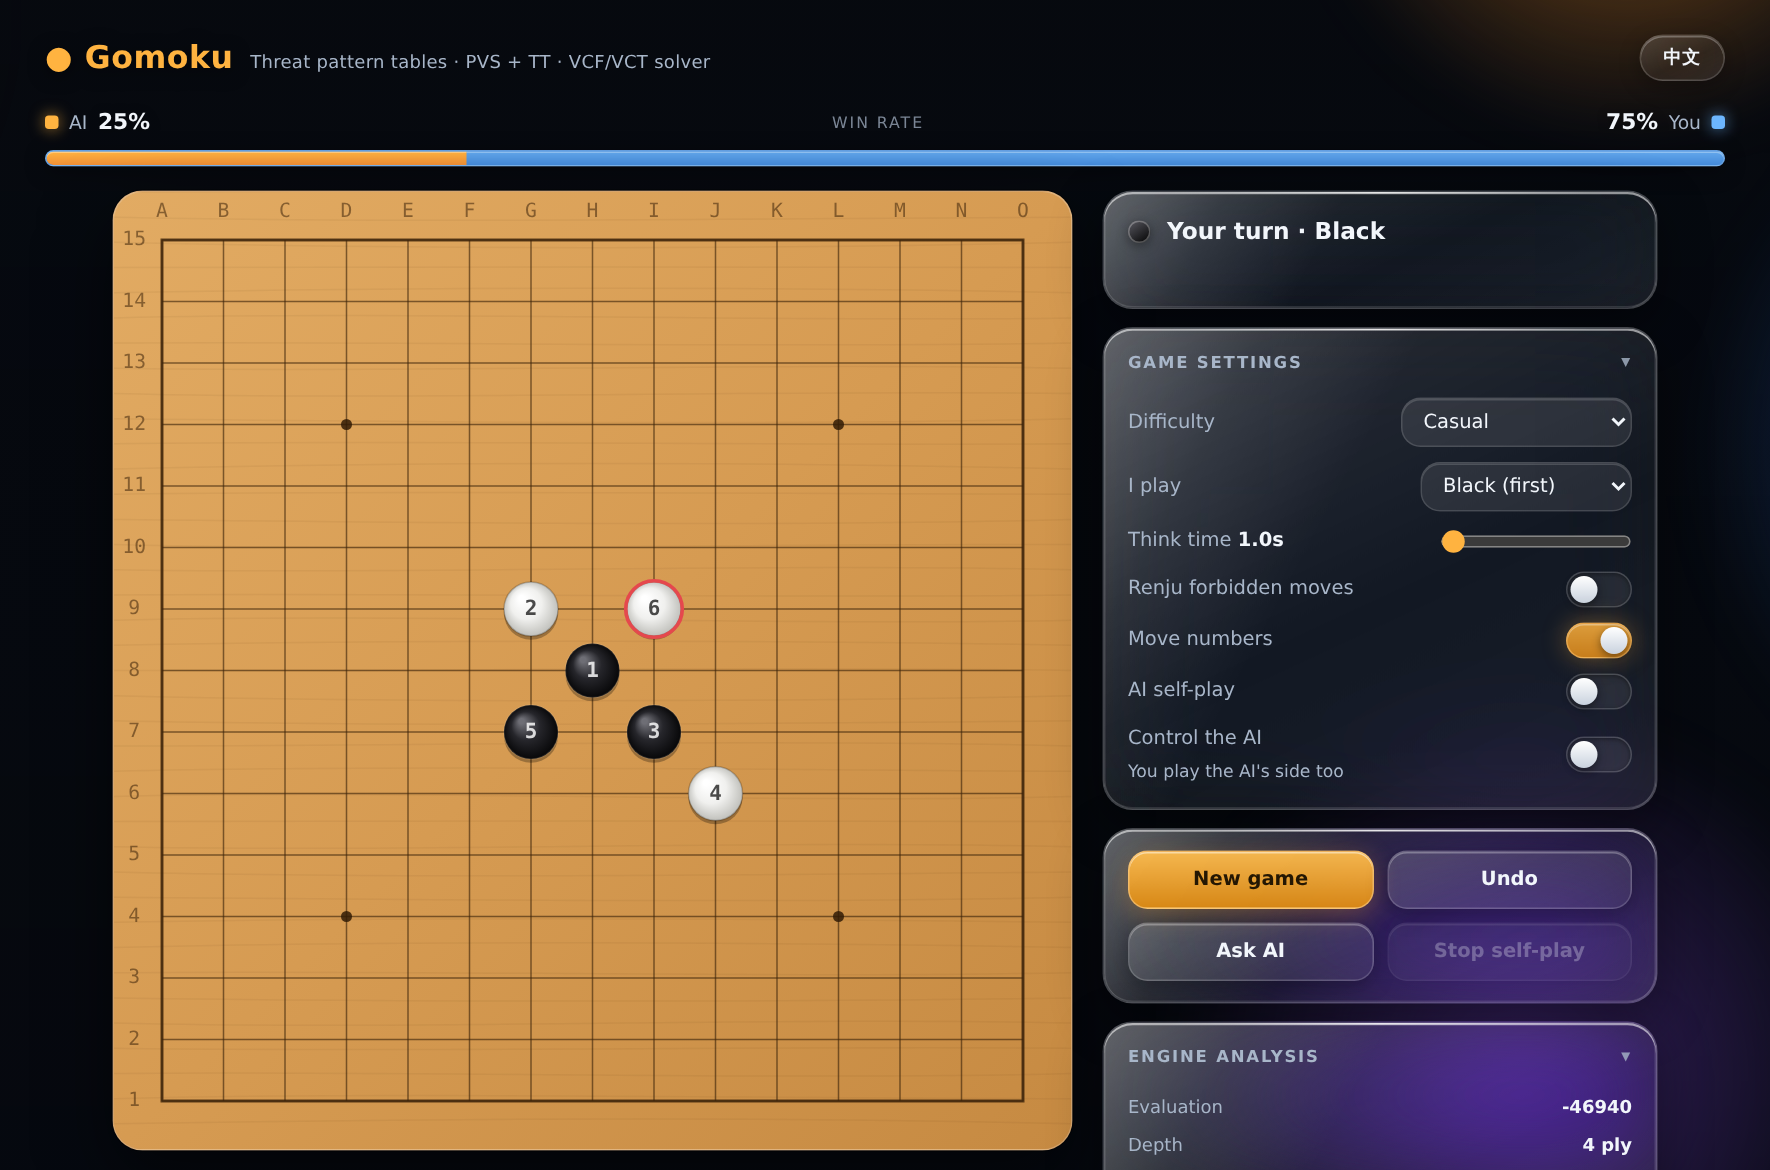
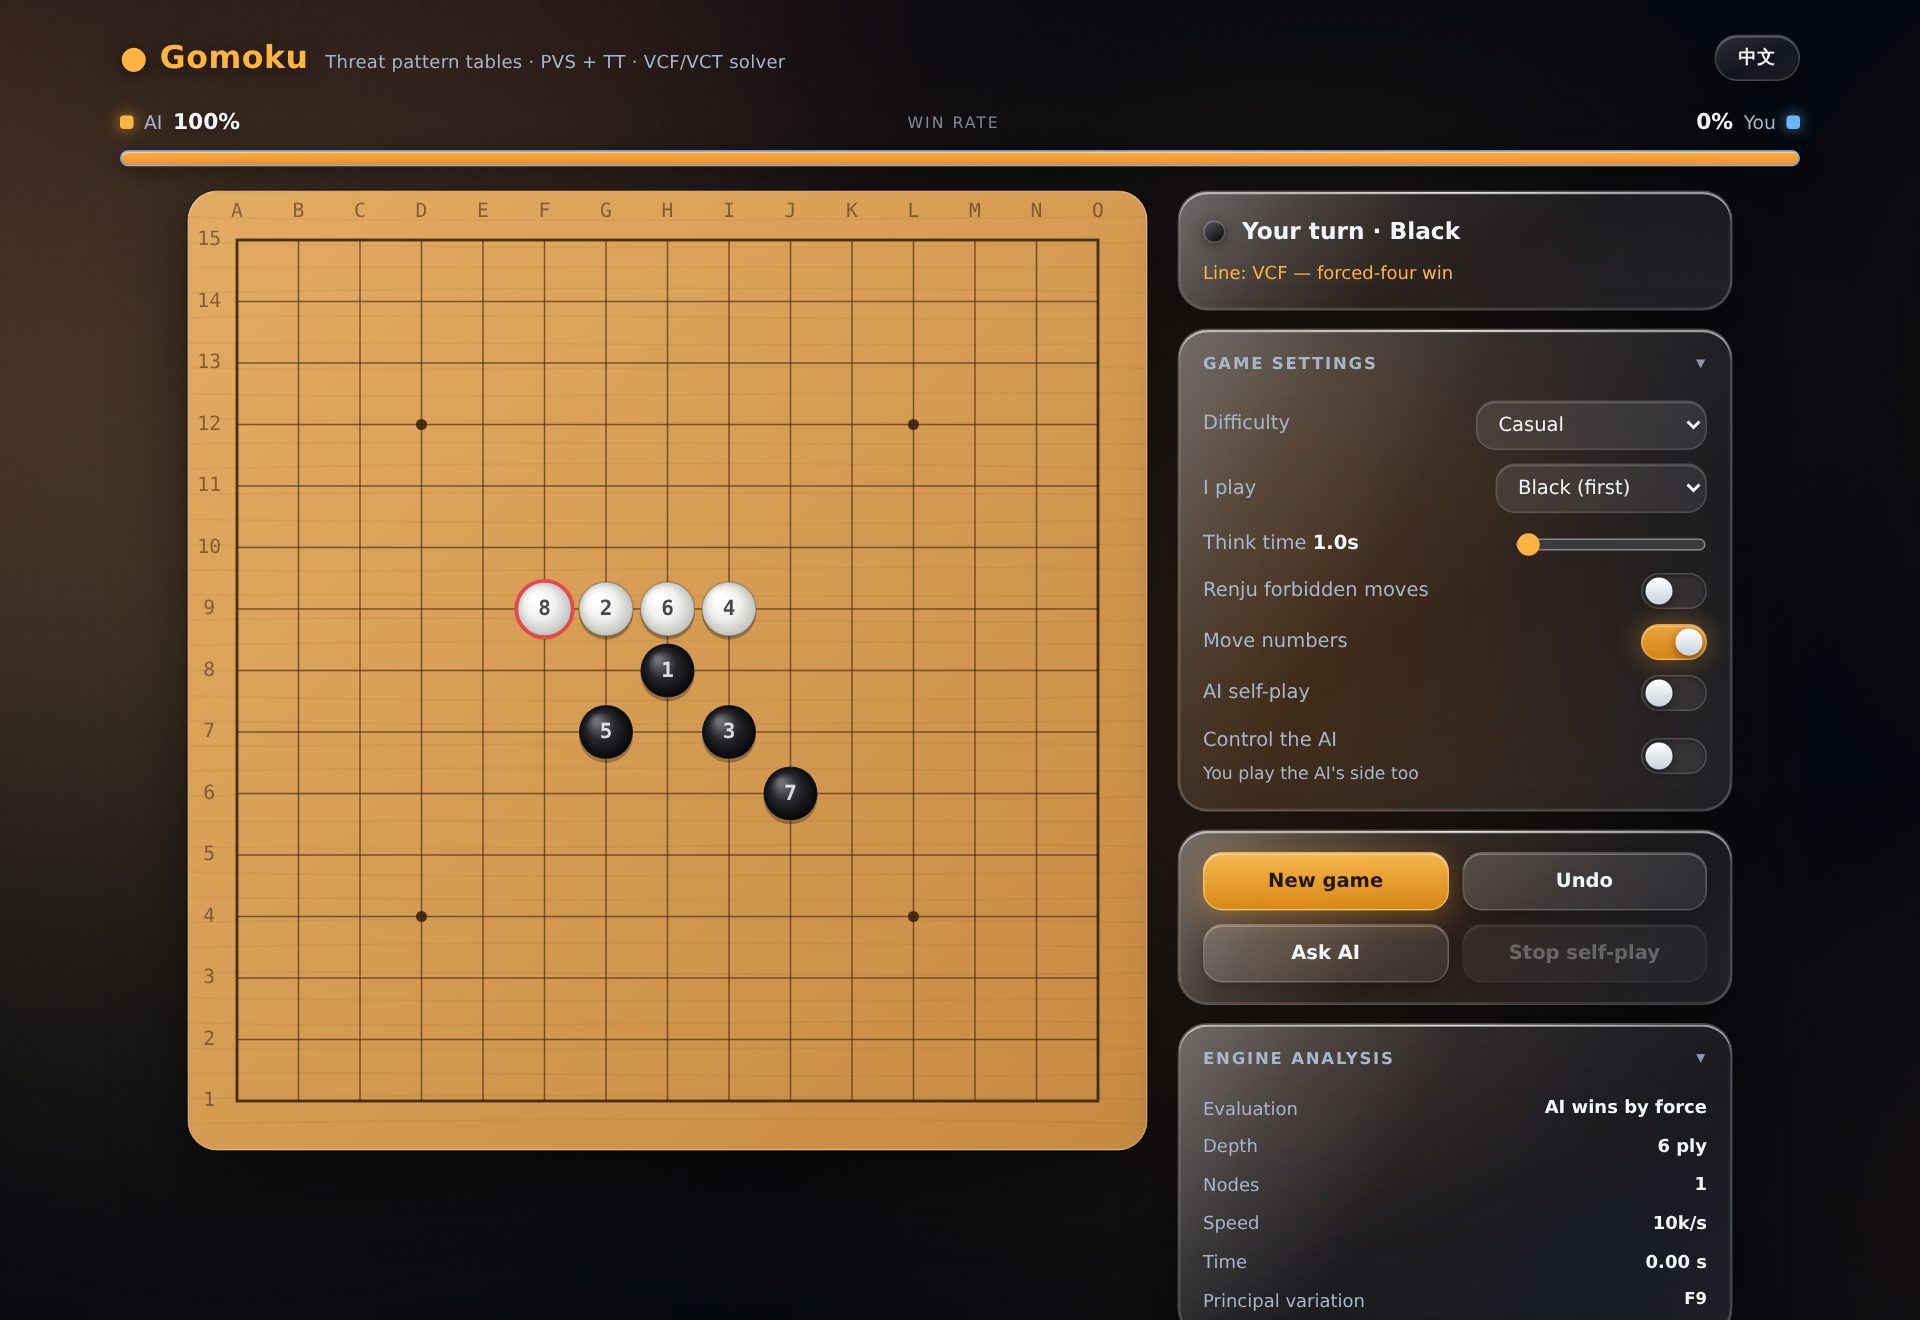
背景改为胜率驱动的水粉画，并给点击/折叠/开关加交互动效
水粉背景（新增 #bg 画布，替换原来的静态 CSS 光斑）：
- 地盘按胜率划分：AI 占优 -> 暖色（琥珀/橘）铺得多，你占优 -> 冷色（蓝/青/紫）铺得多，
  由 updateWinBar() 把胜率喂给 BG.set()
- 「交界像混色」不是把两块颜色拼在一起：每个色团同时持有一个暖色和一个冷色，实际
  颜色由它相对分界线的位置插值，过渡带很宽（SOFT=0.30）。靠近分界的色团本身就是
  两色调和出的中间色，正是水粉湿画法的样子
- 分界线行程刻意超出画面两侧（-0.28~1.38）：只在 0~1 之间移动的话，一方 95% 时
  另一端仍残留对方色团，「地盘被吃掉」的感觉出不来
- 胜率变化时用指数趋近（约 1.5s），实测颜色是从一侧向另一侧洇过去的，不是整体跳变

性能（这是上一轮踩过的坑，这次一开始就按它设计）：
- 画布只有 1/5 分辨率，放大时的双线性插值顺带把色团揉软，省掉昂贵的全屏 CSS blur
- 重绘限速：静止约 8fps、胜率变化时约 24fps。因为每次重绘都会让上面每块玻璃重算
  一次 backdrop——上一轮正是没限速才把 60fps 打到 12fps
- 实测：静止看棋桌面/手机均满帧；鼠标在棋盘连续划动时桌面 33ms、手机满帧，
  与加背景动画之前持平

交互动效：
- 按钮：以按下点为圆心的涟漪（--rx/--ry 由 pointerdown 写入），按下时轻微缩放
- 开关：旋钮走 transform 的弹簧曲线 + 按下拉长（用 transform 而非 left，改宽度时
  才不会把位移顶歪），轨道颜色与辉光同步过渡
- 折叠：原生 details 无法过渡高度，接管 summary 点击用 WAAPI 做高度动画，仍通过
  设置 .open 切换，toggle 事件/键盘/语义不变；收起动画放完才真正关闭
- 全部尊重 prefers-reduced-motion

引擎源码仍逐字节未改，det.js 确定性不变，三视口回归全过。

diff --git a/index.html b/index.html
@@ -43,25 +43,18 @@
     padding:clamp(12px,3vw,22px) 12px calc(28px + env(safe-area-inset-bottom));
     gap:16px;-webkit-font-smoothing:antialiased;
   }
-  /* 玻璃背后必须有东西可透，否则只是「亮一点的方块」。这层彩色光斑就是被透的内容。 */
-  body::before{
-    content:'';position:fixed;inset:-25%;z-index:-2;pointer-events:none;
-    background:
-      radial-gradient(30vw 30vw at 78%  6%, rgba(255,150,40,.70), transparent 62%),
-      radial-gradient(34vw 34vw at 95% 42%, rgba(48,130,255,.68), transparent 64%),
-      radial-gradient(32vw 32vw at 74% 78%, rgba(150,80,255,.62), transparent 64%),
-      radial-gradient(26vw 26vw at 98% 96%, rgba(0,205,190,.50), transparent 62%),
-      radial-gradient(30vw 30vw at  4% 18%, rgba(255,120,60,.42), transparent 62%),
-      radial-gradient(28vw 28vw at  2% 92%, rgba(60,120,255,.40), transparent 62%);
-    filter:blur(18px);
+  /* 水粉背景：玻璃背后必须有东西可透，否则只是「亮一点的方块」。
+     用一张低分辨率画布画柔和色团，再由浏览器双线性放大到全屏——放大本身就把色团
+     揉成了水粉那种没有硬边的过渡，比十几个 CSS 渐变便宜得多，也才有条件做动态。
+     颜色由胜率驱动：AI 占优则暖色地盘变大，你占优则冷色变大，交界处两色互相渗透。 */
+  #bg{
+    position:fixed;inset:0;width:100%;height:100%;z-index:-2;pointer-events:none;
+    display:block;
   }
-  /* 这层刻意保持静止。实测：让它缓慢漂移会把每块玻璃的 backdrop 每帧都判定为「背景变了」
-     而重新模糊 —— 桌面 16.7ms -> 83ms、手机 16.7ms -> 33ms。动感换不来这个代价，
-     玻璃质感靠模糊和边缘高光已经足够。 */
   /* 压暗一层，保证玻璃上的文字始终够对比度——光斑再亮也不会糊掉正文 */
   body::after{
     content:'';position:fixed;inset:0;z-index:-1;pointer-events:none;
-    background:linear-gradient(180deg,rgba(5,8,14,.26),rgba(5,8,14,.44));
+    background:linear-gradient(180deg,rgba(5,8,14,.42),rgba(5,8,14,.56));
   }
 
   /* ---------- 玻璃基类 ---------- */
@@ -181,7 +174,8 @@
   }
   details.card>summary::-webkit-details-marker{display:none}
   details.card>summary:hover{color:var(--fg)}
-  details.card>summary::after{content:'▸';font-size:12px;transition:transform .22s;opacity:.8}
+  details.card>summary::after{content:'▸';font-size:12px;opacity:.8;
+    transition:transform .34s cubic-bezier(.34,1.4,.5,1)}
   details.card[open]>summary::after{transform:rotate(90deg)}
   details.card>.body{padding:0 16px 15px;position:relative;z-index:1}
 
@@ -208,15 +202,19 @@
   select:focus-visible,button:focus-visible,.sw:focus-visible,summary:focus-visible{
     outline:2px solid var(--acc2);outline-offset:2px}
   input[type=range]{padding:0;width:128px;accent-color:var(--acc);cursor:pointer;box-shadow:none}
-  .sw{position:relative;width:44px;height:24px;border-radius:13px;cursor:pointer;transition:.2s;flex:0 0 auto;
+  .sw{position:relative;width:44px;height:24px;border-radius:13px;cursor:pointer;flex:0 0 auto;
     background:rgba(255,255,255,.08);border:1px solid rgba(255,255,255,.15);
-    box-shadow:inset 0 1px 3px rgba(0,0,0,.35)}
+    box-shadow:inset 0 1px 3px rgba(0,0,0,.35);
+    transition:background .28s ease,border-color .28s ease,box-shadow .28s ease}
+  /* 旋钮走 transform 而不是 left：这样「按下拉长」改宽度时不会把位移一起顶歪 */
   .sw::after{content:'';position:absolute;top:2px;left:2px;width:18px;height:18px;border-radius:50%;
-    background:linear-gradient(180deg,#fff,#c9d2de);transition:.2s;
-    box-shadow:0 2px 6px rgba(0,0,0,.45)}
-  .sw.on{background:linear-gradient(180deg,rgba(255,179,64,.85),rgba(232,144,26,.85));
-    border-color:rgba(255,200,120,.5);box-shadow:inset 0 1px 0 rgba(255,255,255,.35),0 0 16px rgba(255,179,64,.35)}
-  .sw.on::after{left:22px}
+    background:linear-gradient(180deg,#fff,#c9d2de);box-shadow:0 2px 6px rgba(0,0,0,.45);
+    transition:transform .38s cubic-bezier(.34,1.42,.5,1),width .22s ease}
+  .sw.on{background:linear-gradient(180deg,rgba(255,179,64,.9),rgba(232,144,26,.9));
+    border-color:rgba(255,200,120,.5);box-shadow:inset 0 1px 0 rgba(255,255,255,.35),0 0 18px rgba(255,179,64,.4)}
+  .sw.on::after{transform:translateX(20px)}
+  .sw:active::after{width:23px}
+  .sw.on:active::after{transform:translateX(15px);width:23px}
 
   .btns{display:grid;grid-template-columns:repeat(2,1fr);gap:9px;position:relative;z-index:1}
   button{
@@ -228,7 +226,20 @@
   }
   button:hover:not(:disabled){background:linear-gradient(155deg,rgba(255,255,255,.18),rgba(255,255,255,.08));
     border-color:rgba(255,255,255,.26)}
-  button:active:not(:disabled){transform:translateY(1px) scale(.985)}
+  button:active:not(:disabled){transform:translateY(1px) scale(.976)}
+  /* 点击涟漪：以按下点为圆心扩散。--rx/--ry 由 JS 在 pointerdown 时写入 */
+  button::after{
+    content:'';position:absolute;left:var(--rx,50%);top:var(--ry,50%);
+    width:0;height:0;border-radius:50%;transform:translate(-50%,-50%);
+    background:radial-gradient(circle,rgba(255,255,255,.5),rgba(255,255,255,0) 68%);
+    opacity:0;pointer-events:none;
+  }
+  button.rip::after{animation:ripple .58s cubic-bezier(.22,.7,.3,1)}
+  @keyframes ripple{
+    0%  {width:0;height:0;opacity:.75}
+    100%{width:300px;height:300px;opacity:0}
+  }
+  button.pri::after{background:radial-gradient(circle,rgba(255,255,255,.75),rgba(255,255,255,0) 68%)}
   button:disabled{opacity:.32;cursor:not-allowed}
   button.pri{
     background:linear-gradient(180deg,rgba(255,190,80,.95),rgba(224,140,20,.95));
@@ -273,6 +284,8 @@
 </style>
 </head>
 <body>
+
+<canvas id="bg" aria-hidden="true"></canvas>
 
 <header>
   <div class="brand">
@@ -1242,6 +1255,95 @@ if(!usingWorker){
   engine=shim;
 }
 
+/* ---------- 水粉背景 ----------
+   地盘按胜率划分：AI 占优 -> 暖色（琥珀/橘）铺得多，你占优 -> 冷色（蓝/青/紫）铺得多。
+
+   怎么做到「交界像混色」：每个色团都同时持有一个暖色和一个冷色，实际颜色由它在
+   x 轴上相对分界线的位置插值而来，过渡带很宽（SOFT）。所以靠近分界的色团本身就是
+   两色调和出来的中间色，而不是两块颜色硬拼在一起——这正是水粉湿画法的样子。
+
+   性能：画布只有 ~1/5 分辨率，放大时的双线性插值顺带把色团揉软（省掉昂贵的全屏
+   CSS blur）。重绘按需限速——静止时约 8fps、胜率变化时约 24fps，因为每次重绘都会
+   让上面每块玻璃重算一次 backdrop（上一轮实测：不限速会把 60fps 打到 12fps）。 */
+const BG=(function(){
+  const el=document.getElementById('bg'), c=el.getContext('2d');
+  const WARM=[[255,150,40],[255,104,56],[255,193,88],[255,126,72]];   // AI
+  const COOL=[[52,130,255],[0,201,196],[132,84,255],[64,158,255]];    // 你
+  const N=14, SOFT=0.30;                 // SOFT 越大，交界的调和带越宽
+  const blobs=[];
+  let seed=20260808;
+  const rnd=()=>((seed=(seed*1103515245+12345)&0x7fffffff)/0x7fffffff);
+  for(let i=0;i<N;i++) blobs.push({
+    bx:-0.12+rnd()*1.24, by:rnd(), r:0.24+rnd()*0.24,
+    fx:0.10+rnd()*0.22, fy:0.08+rnd()*0.20,   // 各自不同的漂移频率 -> 不会整体同步晃
+    ph:rnd()*6.283, ax:0.05+rnd()*0.07, ay:0.04+rnd()*0.07,
+    a:0.10+rnd()*0.09, pal:i%4,             // 单团很淡，靠层叠出浓淡，一边独大时也不会糊成一片
+  });
+
+  let target=0.5, cur=0.5, t=0, W=0, H=0, last=0, raf=0;
+  const reduce=window.matchMedia&&window.matchMedia('(prefers-reduced-motion:reduce)').matches;
+
+  function resize(){
+    // 1/5 分辨率就够——反正整幅图都是柔和过渡，放大后看不出来
+    W=Math.max(72,Math.round(window.innerWidth/5));
+    H=Math.max(48,Math.round(window.innerHeight/5));
+    el.width=W; el.height=H;
+    paint();
+  }
+  const smooth=x=>{ x=x<0?0:(x>1?1:x); return x*x*(3-2*x); };
+
+  function paint(){
+    c.globalCompositeOperation='source-over';
+    c.fillStyle='#070a10'; c.fillRect(0,0,W,H);
+    c.globalCompositeOperation='screen';       // 深底上叠色，像层层罩染
+    const R=Math.max(W,H);
+    for(const b of blobs){
+      const x=(b.bx+Math.sin(t*b.fx+b.ph)*b.ax);
+      const y=(b.by+Math.cos(t*b.fy+b.ph*1.7)*b.ay);
+      // 分界线随胜率移动。行程刻意超出画面两侧（-0.28 ~ 1.38）：不这样的话，
+      // 一方 95% 时另一端仍会残留对方的色团，「地盘被吃掉」的感觉就出不来。
+      const edge=-0.28+cur*1.66;
+      const m=smooth((x-edge)/SOFT+0.5);
+      const wa=WARM[b.pal], co=COOL[b.pal];
+      const r=Math.round(wa[0]+(co[0]-wa[0])*m),
+            g=Math.round(wa[1]+(co[1]-wa[1])*m),
+            bl=Math.round(wa[2]+(co[2]-wa[2])*m);
+      const px=x*W, py=y*H, pr=b.r*R;
+      const grd=c.createRadialGradient(px,py,0,px,py,pr);
+      grd.addColorStop(0,   'rgba('+r+','+g+','+bl+','+b.a+')');
+      grd.addColorStop(0.55,'rgba('+r+','+g+','+bl+','+(b.a*0.42).toFixed(3)+')');
+      grd.addColorStop(1,   'rgba('+r+','+g+','+bl+',0)');
+      c.fillStyle=grd;
+      c.beginPath(); c.arc(px,py,pr,0,6.2832); c.fill();
+    }
+    c.globalCompositeOperation='source-over';
+  }
+
+  function frame(ts){
+    raf=0;
+    const moving=Math.abs(cur-target)>0.0015;
+    // 限速：胜率变化时画顺一点，静止时慢慢飘就行
+    const gap=moving?42:125;
+    if(ts-last>=gap){
+      const dt=(ts-last)/1000; last=ts;
+      if(moving) cur+=(target-cur)*Math.min(1,dt*1.25);  // 指数趋近，起步快收尾缓（约 1.5s 洇满）
+      else cur=target;
+      if(!reduce) t+=dt*0.55;
+      paint();
+    }
+    if(moving||!reduce) raf=requestAnimationFrame(frame);
+  }
+  function kick(){ if(!raf){ last=performance.now()-200; raf=requestAnimationFrame(frame); } }
+
+  window.addEventListener('resize',resize);
+  resize();
+  if(!reduce) kick();
+  return {
+    /* p = AI 的胜率（0~1）。updateWinBar 每次算完都会喂进来。 */
+    set(p){ if(Math.abs(p-target)<0.002) return; target=p; if(reduce){ cur=p; paint(); } else kick(); }
+  };
+})();
+
 /* ---- 画布 ---- */
 const cv=document.getElementById('cv'), ctx=cv.getContext('2d');
 let CELL=36, MARGIN=26, DPR=Math.min(window.devicePixelRatio||1,2);
@@ -1571,6 +1673,7 @@ function updateWinBar(){
     p = winProb(lastScore);
     if(lastScoreSide!==leftSide) p = 1-p;      // 换算到左端视角
   }
+  BG.set(p);                    // 背景地盘跟着胜率走（左端=AI=暖色）
   const l=Math.round(p*100);
   document.getElementById('wbFill').style.width = l+'%';
   document.getElementById('wbAi').textContent = l+'%';
@@ -1609,6 +1712,45 @@ function setSw(id,v){
 document.querySelectorAll('.sw').forEach(sw=>{
   sw.addEventListener('keydown',e=>{
     if(e.key===' '||e.key==='Enter'){ e.preventDefault(); sw.click(); }
+  });
+});
+
+/* ---- 交互动效 ---- */
+const REDUCE=window.matchMedia&&window.matchMedia('(prefers-reduced-motion:reduce)').matches;
+
+// 按钮涟漪：把按下点写进 CSS 变量，重启动画（先摘 class 再强制回流，否则连点第二下不触发）
+document.addEventListener('pointerdown',e=>{
+  const btn=e.target.closest('button');
+  if(!btn||btn.disabled||REDUCE) return;
+  const r=btn.getBoundingClientRect();
+  btn.style.setProperty('--rx',(e.clientX-r.left)+'px');
+  btn.style.setProperty('--ry',(e.clientY-r.top)+'px');
+  btn.classList.remove('rip'); void btn.offsetWidth; btn.classList.add('rip');
+},{passive:true});
+
+/* 原生 details 不能给高度做过渡，接管点击用 WAAPI 自己动。
+   仍然通过设置 .open 来切换，所以 toggle 事件、键盘操作、语义都保持不变。 */
+document.querySelectorAll('details.card').forEach(d=>{
+  const sum=d.querySelector('summary'), body=d.querySelector('.body');
+  if(!sum||!body) return;
+  let anim=null;
+  sum.addEventListener('click',e=>{
+    e.preventDefault();
+    if(REDUCE){ d.open=!d.open; return; }
+    if(anim) anim.cancel();
+    const opening=!d.open;
+    if(opening) d.open=true;                    // 先展开才量得到自然高度
+    const h=body.scrollHeight;
+    body.style.overflow='hidden';
+    anim=body.animate(
+      opening ? [{height:0,opacity:0},{height:h+'px',opacity:1}]
+              : [{height:h+'px',opacity:1},{height:0,opacity:0}],
+      {duration:opening?300:240, easing:opening?'cubic-bezier(.25,.9,.3,1)':'cubic-bezier(.4,0,.65,1)'}
+    );
+    anim.onfinish=()=>{
+      anim=null; body.style.overflow='';
+      if(!opening) d.open=false;                // 收起动画放完再真正关闭
+    };
   });
 });
 document.getElementById('nums').onclick=function(){ numsOn=!numsOn; setSw('nums',numsOn); draw(); };
